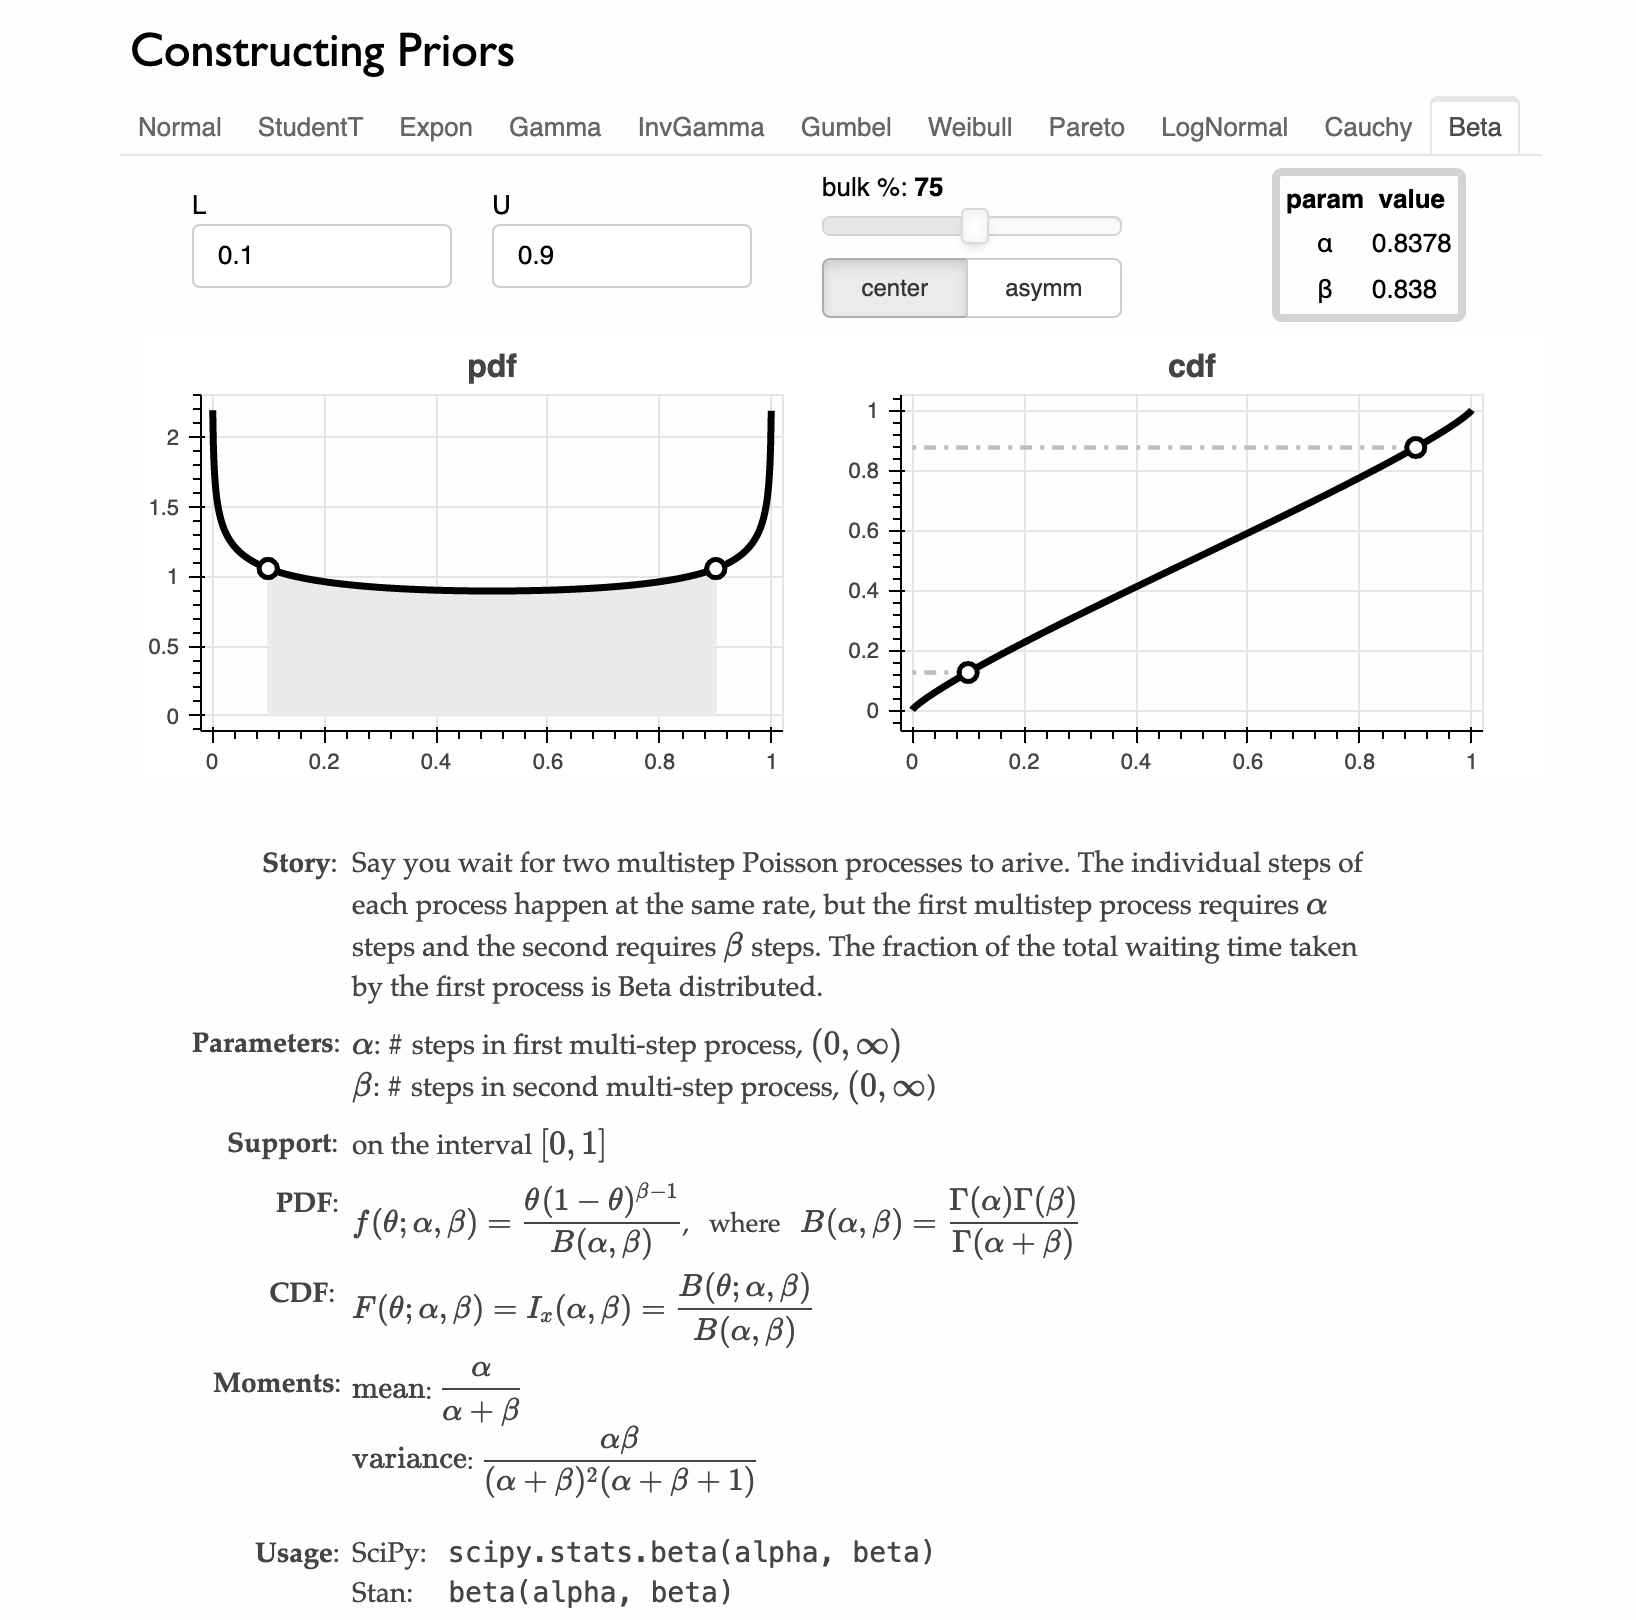
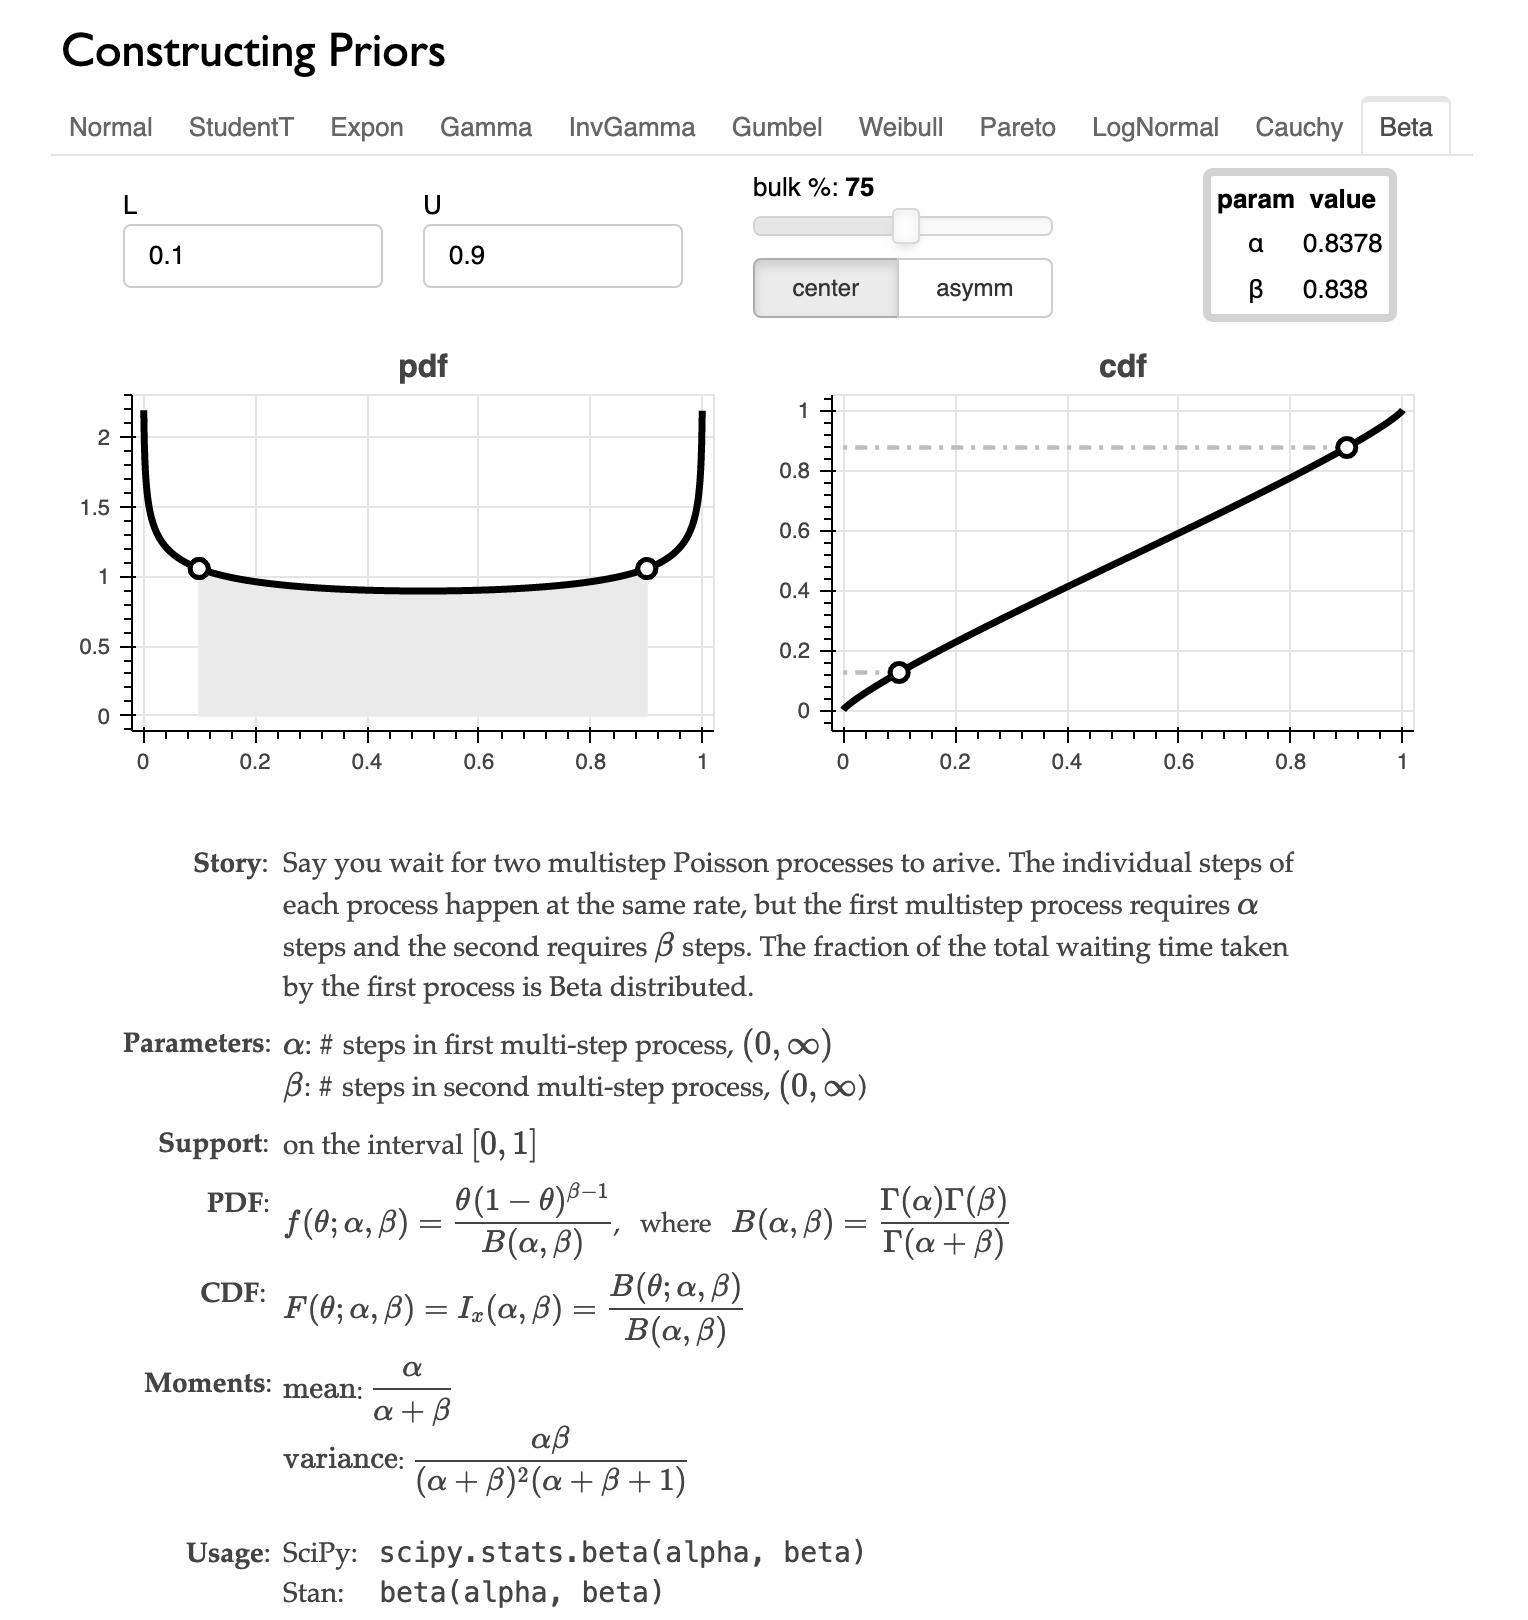
resizing image

diff --git a/README.md b/README.md
@@ -11,4 +11,5 @@ import bayesian_priors
 bayesian_priors.dashboard(description=True)
 ```
 
-![](demo.png)
+<img src="demo.png" style="zoom:80%;" />
+
